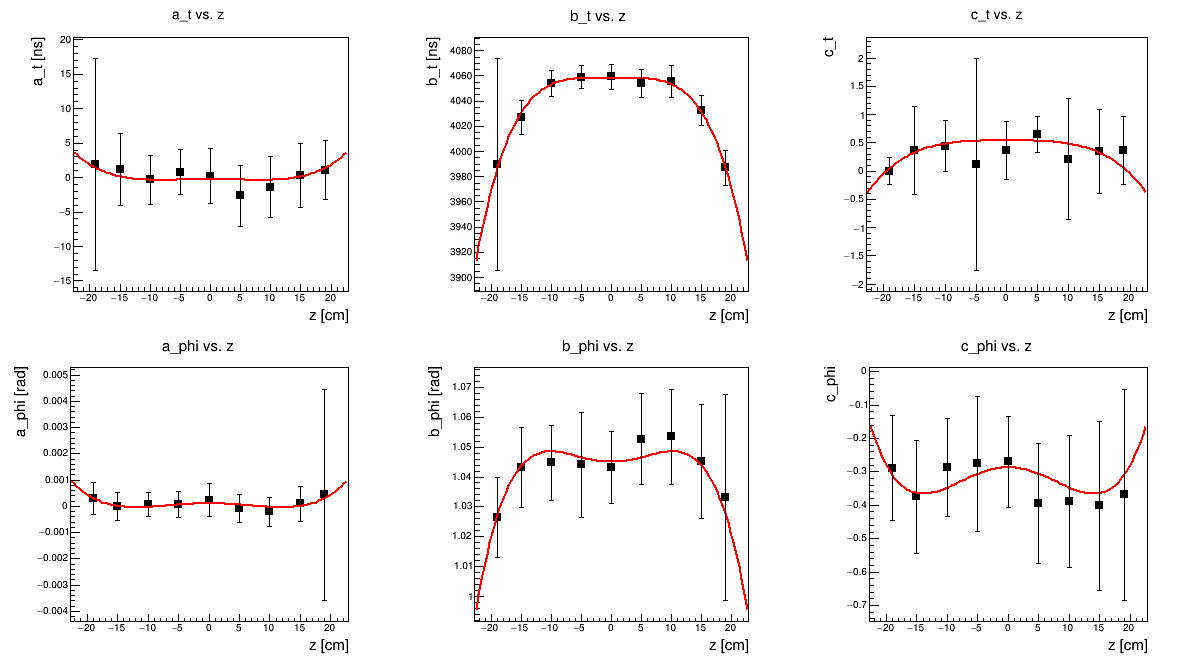
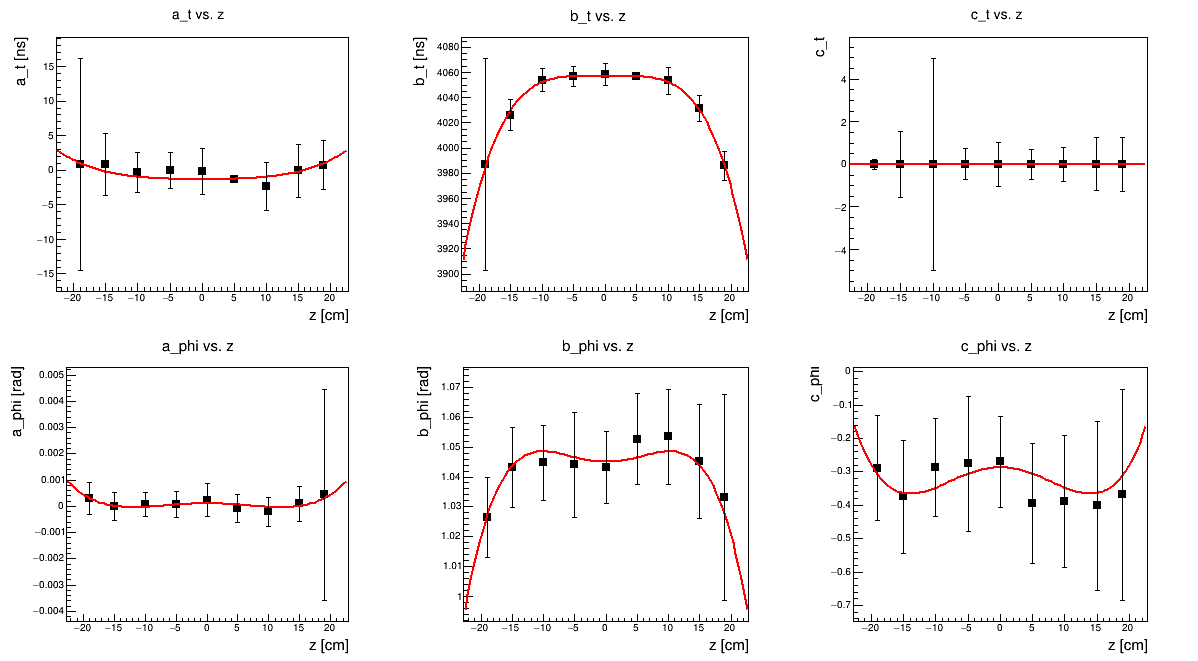
New Garf++ parameters

diff --git a/parameters/4p06T_4498_400_300/index.html b/parameters/4p06T_4498_400_300/index.html
@@ -58,7 +58,7 @@
     <hr>
     The drift time fit equation has the form:
     \begin{equation}
-    t_d(r,z) = a_t(z) + b_t(z) \left[ \frac{1}{2} + \frac{r_{\mathrm{min}}^2 - r_{\mathrm{max}}^2 + \sqrt{4(-0.1+c^2_t(z))(r_{\mathrm{max}}^2 + r_{\mathrm{min}}^2 - r^2) + (r_{\mathrm{max}}^2 - r_{\mathrm{min}}^2 + 0.1 - c^2_t(z))^2}}{2(-0.1+c^2_t(z))} \right] + t_{\mathrm{gap}}
+    t_d(r,z) = a_t(z) + b_t(z) \left[ \frac{1}{2} + \frac{r_{\mathrm{min}}^2 - r_{\mathrm{max}}^2 + \sqrt{4(0.1+c^2_t(z))(r_{\mathrm{max}}^2 + r_{\mathrm{min}}^2 - r^2) + (r_{\mathrm{max}}^2 - r_{\mathrm{min}}^2 + 0.1 + c^2_t(z))^2}}{2(0.1+c^2_t(z))} \right] + t_{\mathrm{gap}}
     \end{equation}
     where $r_{\mathrm{min}} =$ 3.0 cm, $r_{\mathrm{max}}$ = 7.0 cm, and
     \begin{equation}
@@ -75,17 +75,17 @@
     $t_{\mathrm{gap}}$ = 778.91 ns<br />
     
 <br />
-$a_{t,0}$ = -0.272362<br />
-$a_{t,1}$ = -0.00282139<br />
-$a_{t,2}$ = 2.06348e-05<br />
+$a_{t,0}$ = -1.33219<br />
+$a_{t,1}$ = 0.00251369<br />
+$a_{t,2}$ = 1.09799e-05<br />
 <br />
-$b_{t,0}$ = 4058.29<br />
-$b_{t,1}$ = 0.00818649<br />
-$b_{t,2}$ = 0.000573735<br />
+$b_{t,0}$ = 4056.87<br />
+$b_{t,1}$ = 0.0128792<br />
+$b_{t,2}$ = -0.000583846<br />
 <br />
-$c_{t,0}$ = 0.540126<br />
-$c_{t,1}$ = -0.000271523<br />
-$c_{t,2}$ = -2.99015e-06<br />
+$c_{t,0}$ = 4.33569e-05<br />
+$c_{t,1}$ = -1.01303e-09<br />
+$c_{t,2}$ = -2.02281e-11<br />
 <br />
 <hr>
 The drift angle fit equation has the form:
